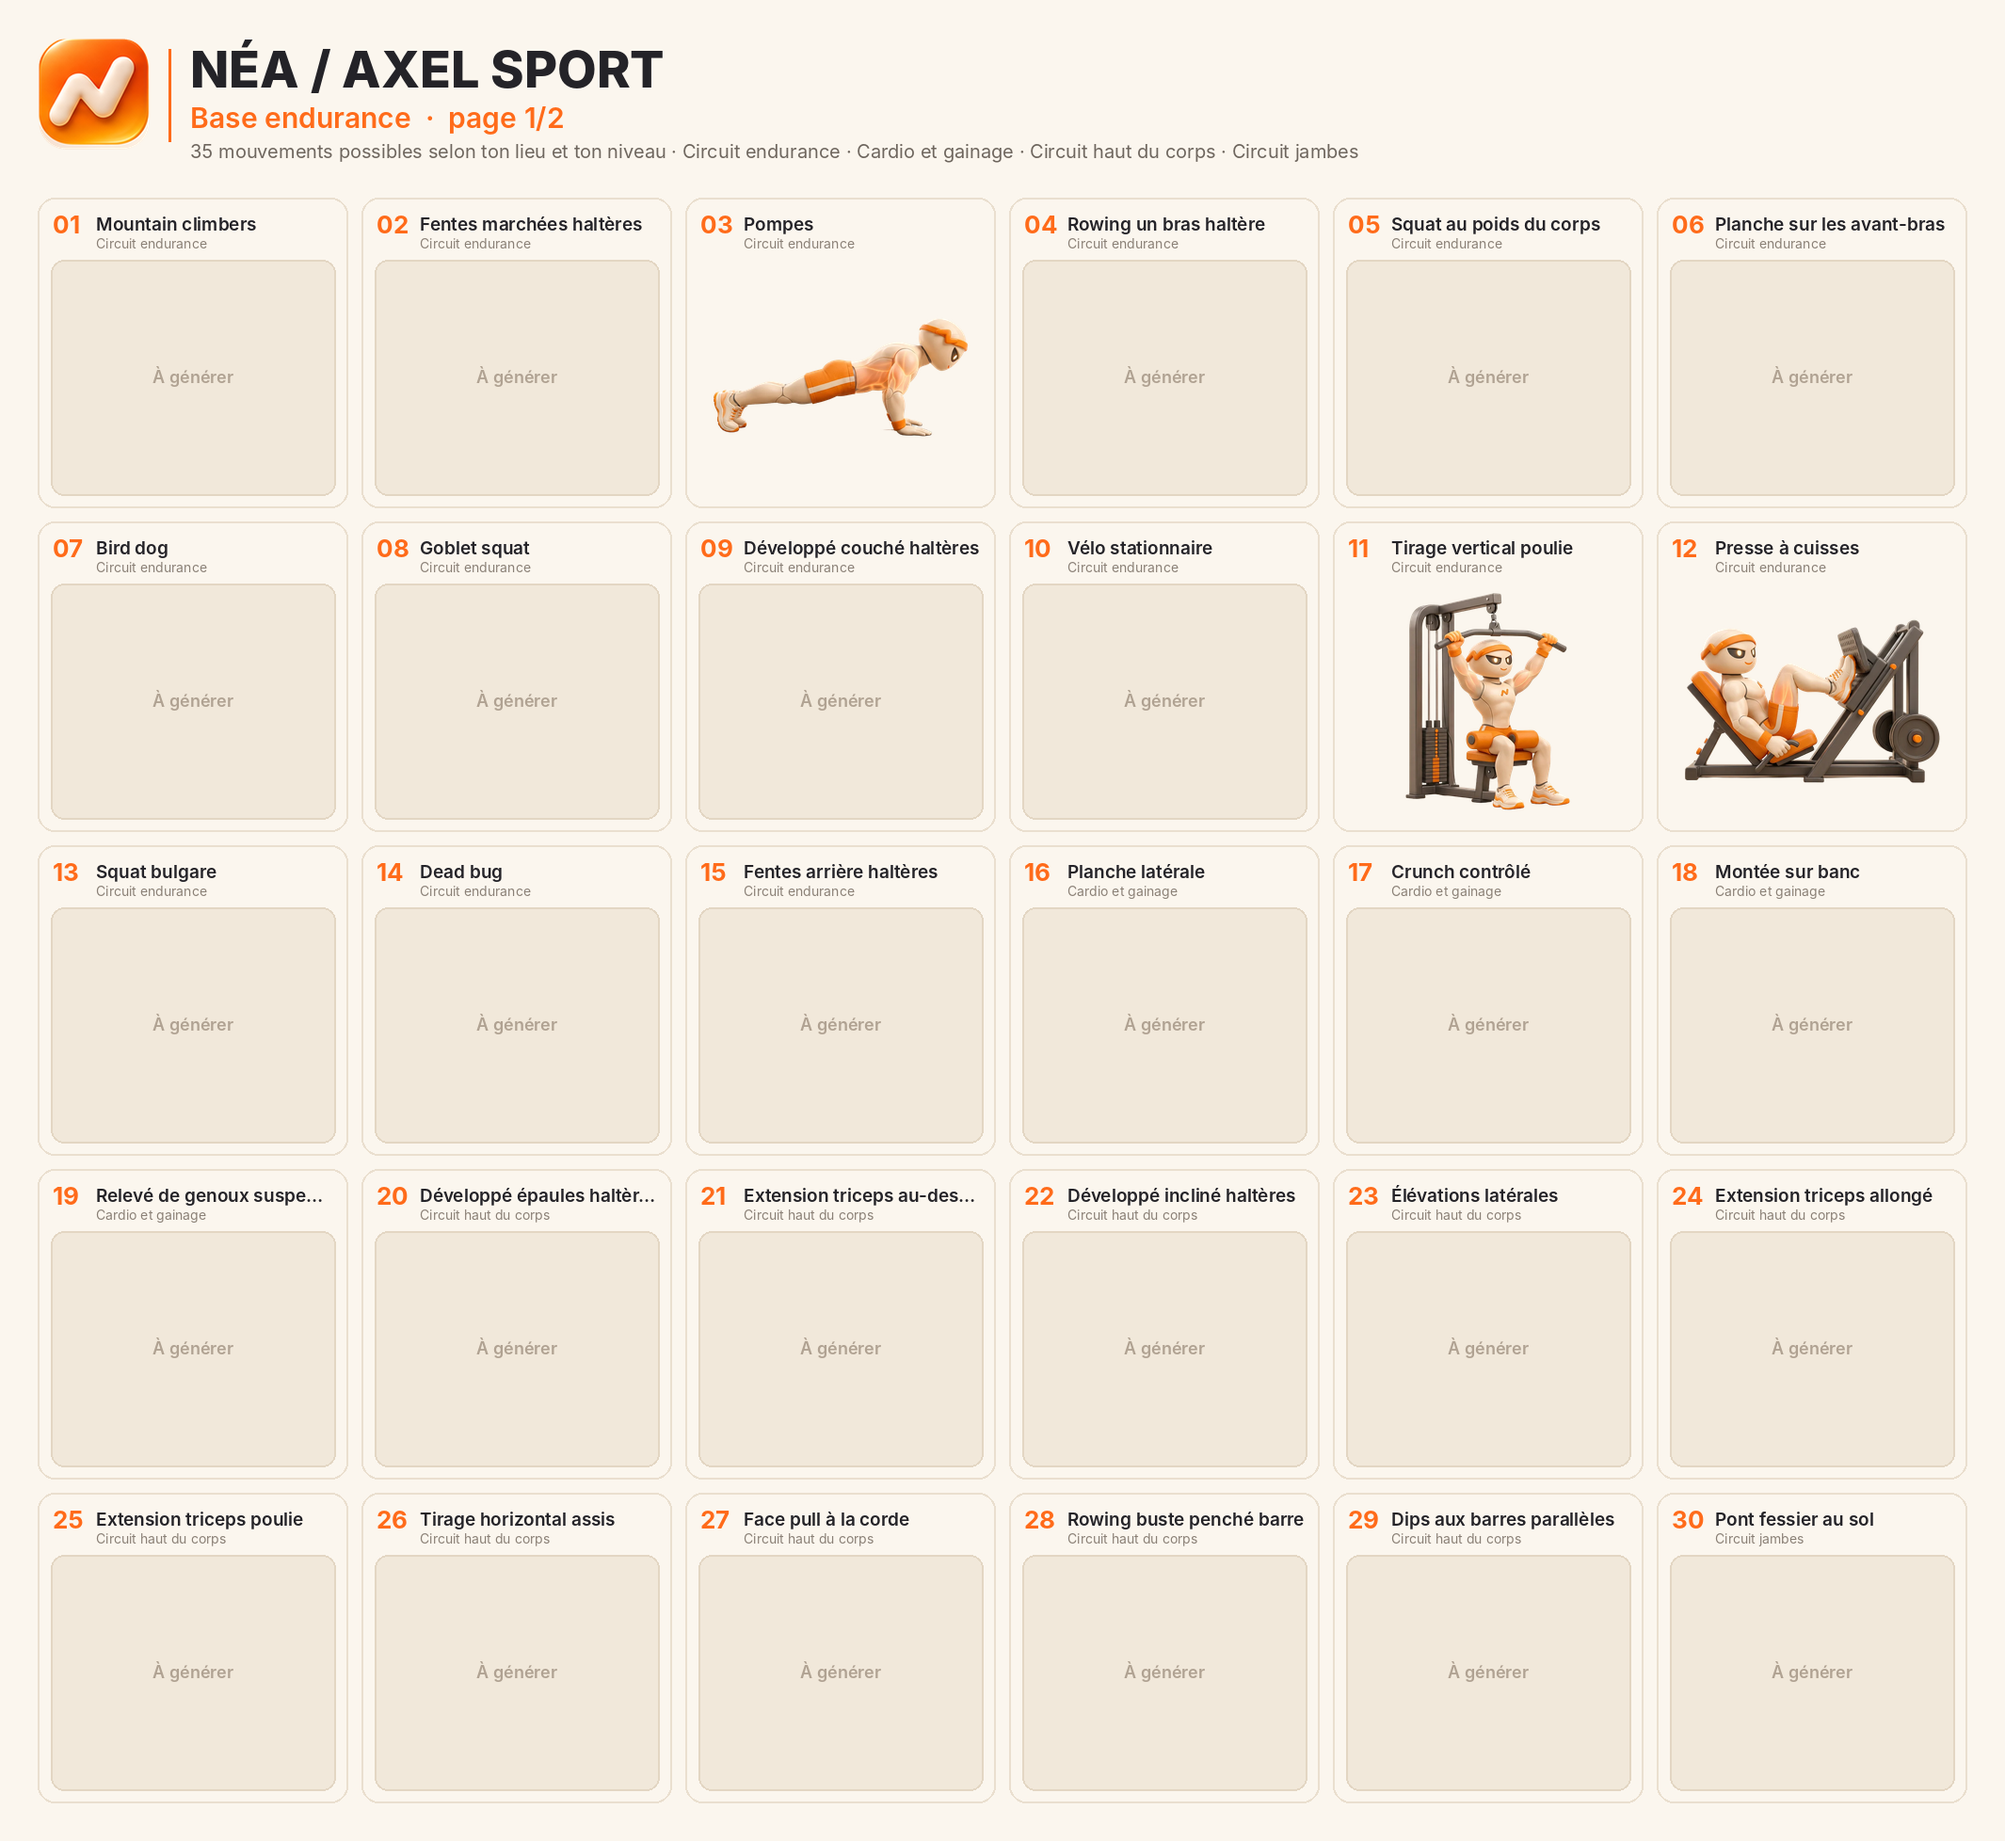
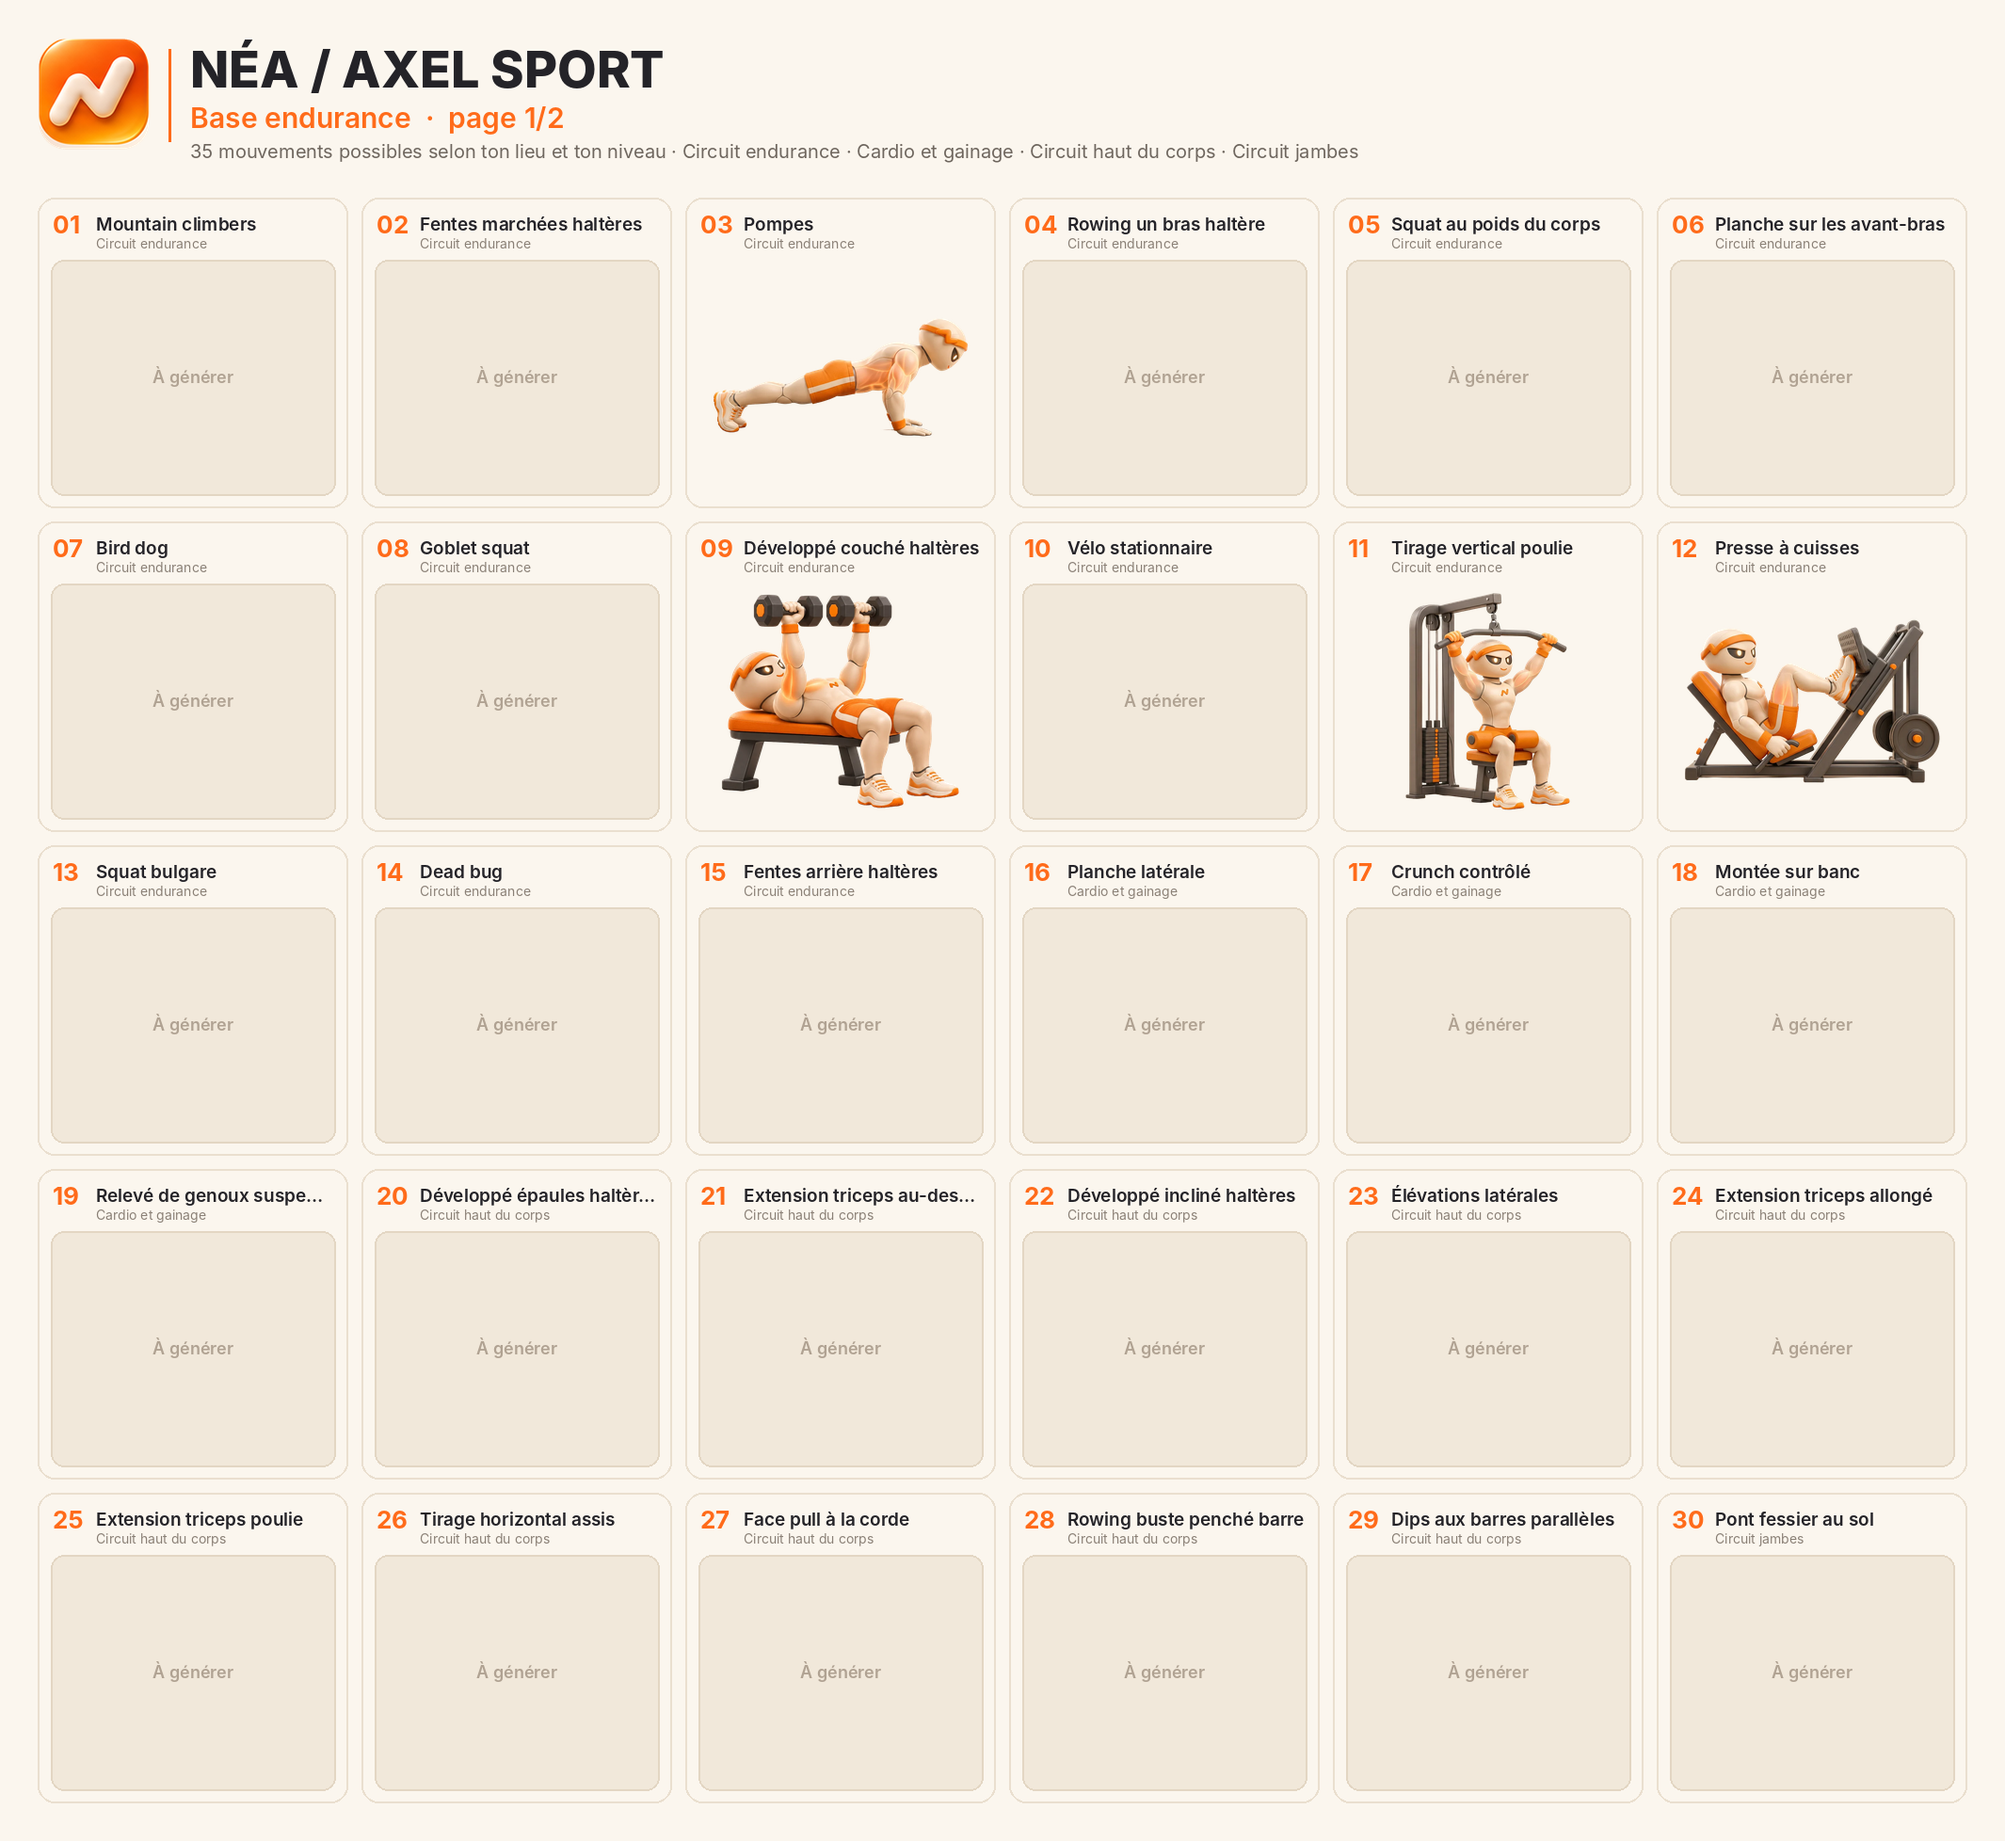
Axel Sport : développé couché haltères (ChatGPT)
Claude-Session: https://claude.ai/code/session_01MfMeCopMkZb9h8dMnsxXAz

Changed region(s): [[0.3408, 0.3119, 0.4958, 0.4366]]

diff --git a/src/data/exercicesAxel.ts b/src/data/exercicesAxel.ts
@@ -3,8 +3,9 @@ import type { ImageSourcePropType } from 'react-native';
 
 import type { ExerciceId } from './types';
 
-/** Illustrations Axel Sport déjà produites (3 / 50) ; les autres exercices gardent l'ancienne image. */
+/** Illustrations Axel Sport déjà produites (4 / 50) ; les autres exercices gardent l'ancienne image. */
 export const AXEL_EXERCICE_IMAGES: Readonly<Partial<Record<ExerciceId, ImageSourcePropType>>> = {
+  developpe_couche_halteres: require('@/assets/exercices/axel/developpe_couche_halteres.webp'),
   pompes: require('@/assets/exercices/axel/pompes.webp'),
   tirage_vertical: require('@/assets/exercices/axel/tirage_vertical.webp'),
   presse_cuisses: require('@/assets/exercices/axel/presse_cuisses.webp'),

diff --git a/docs/axel-sport/manifeste.md b/docs/axel-sport/manifeste.md
@@ -1,12 +1,12 @@
 # Manifeste Axel Sport : exercice → image → statut
 
-50 exercices uniques · 0 validés · 3 générés à vérifier · 0 à refaire · 47 à générer.
+50 exercices uniques · 0 validés · 4 générés à vérifier · 0 à refaire · 46 à générer.
 
 Les prompts complets et autonomes sont dans `manifeste.json` (champ `prompt`).
 
 | # | id | Nom | Fichier | Statut | Vues départ / arrivée | Remarques |
 |---|---|---|---|---|---|---|
-| 1 | `developpe_couche_halteres` | Développé couché haltères | `assets/exercices/axel/developpe_couche_halteres.webp` | À générer | prévues (à générer) |  |
+| 1 | `developpe_couche_halteres` | Développé couché haltères | `assets/exercices/axel/developpe_couche_halteres.webp` | Généré · à vérifier | prévues (à générer) | Bonne posture (haltères au-dessus de la poitrine, pieds au sol) ; assise du banc orange au lieu de graphite, comme sur la planche des 30 mouvements. |
 | 2 | `developpe_incline_halteres` | Développé incliné haltères | `assets/exercices/axel/developpe_incline_halteres.webp` | À générer | prévues (à générer) |  |
 | 3 | `developpe_couche_barre` | Développé couché barre | `assets/exercices/axel/developpe_couche_barre.webp` | À générer | prévues (à générer) |  |
 | 4 | `ecarte_halteres` | Écarté couché haltères | `assets/exercices/axel/ecarte_halteres.webp` | À générer | prévues (à générer) |  |

diff --git a/CLAUDE.md b/CLAUDE.md
@@ -124,7 +124,7 @@ jauge d'amplitude, message du coach, voix `expo-speech` chargée seulement si `E
 `docs/axel-sport/` (LISEZMOI, inventaire réel tiré de `buildPlan` sur toutes les combinaisons + 41 séances prêtes, manifeste avec un prompt par exercice,
 journal des générations, références, planches par programme et catalogue) ; images dans `assets/exercices/axel/<id>.webp` (détourées, transparentes),
 `src/data/exercicesAxel.ts` généré par `scripts/axel-sport-integrer.ts`, `EXERCICE_IMAGES` = Axel si présent sinon l'ancienne image (repli) ;
-**3 / 50 produites** (pompes, presse à cuisses, tirage vertical, à vérifier), le reste bloqué par la limite quotidienne d'images du plan gratuit ElevenLabs ;
+**4 / 50 produites** (pompes, presse à cuisses, tirage vertical via ElevenLabs ; développé couché haltères via ChatGPT ; à vérifier), le reste bloqué par la limite quotidienne d'images du plan gratuit ElevenLabs ;
 ne pas publier tant que la bibliothèque mélange anciennes et nouvelles images.
 
 **Navigation principale (design 10K « Navigation principale », process-tab-bar, oct. 2026)** : `TabBar` refaite (paquet vérifié, 406 empreintes ;

diff --git a/docs/axel-sport/prompts-chatgpt.md b/docs/axel-sport/prompts-chatgpt.md
@@ -34,7 +34,7 @@ Réponds seulement « Prêt » ; je t'envoie ensuite un exercice par message et 
 
 ## Exercices (50)
 
-### 01. Développé couché haltères → `developpe_couche_halteres.png`
+### 01. Développé couché haltères → `developpe_couche_halteres.png` · déjà fait (à refaire si la posture ne va pas)
 
 ```
 Exercice : Développé couché haltères.
